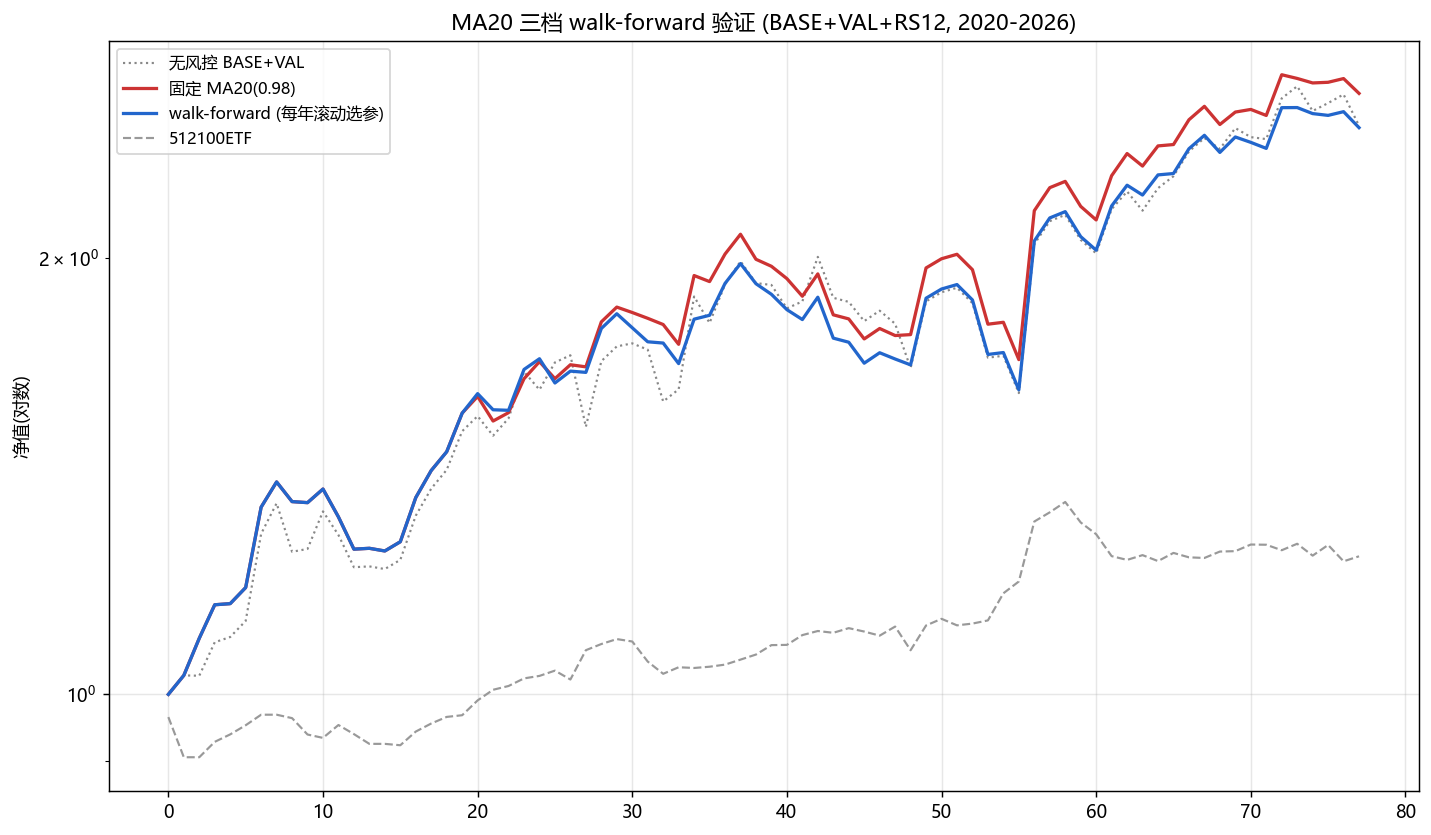
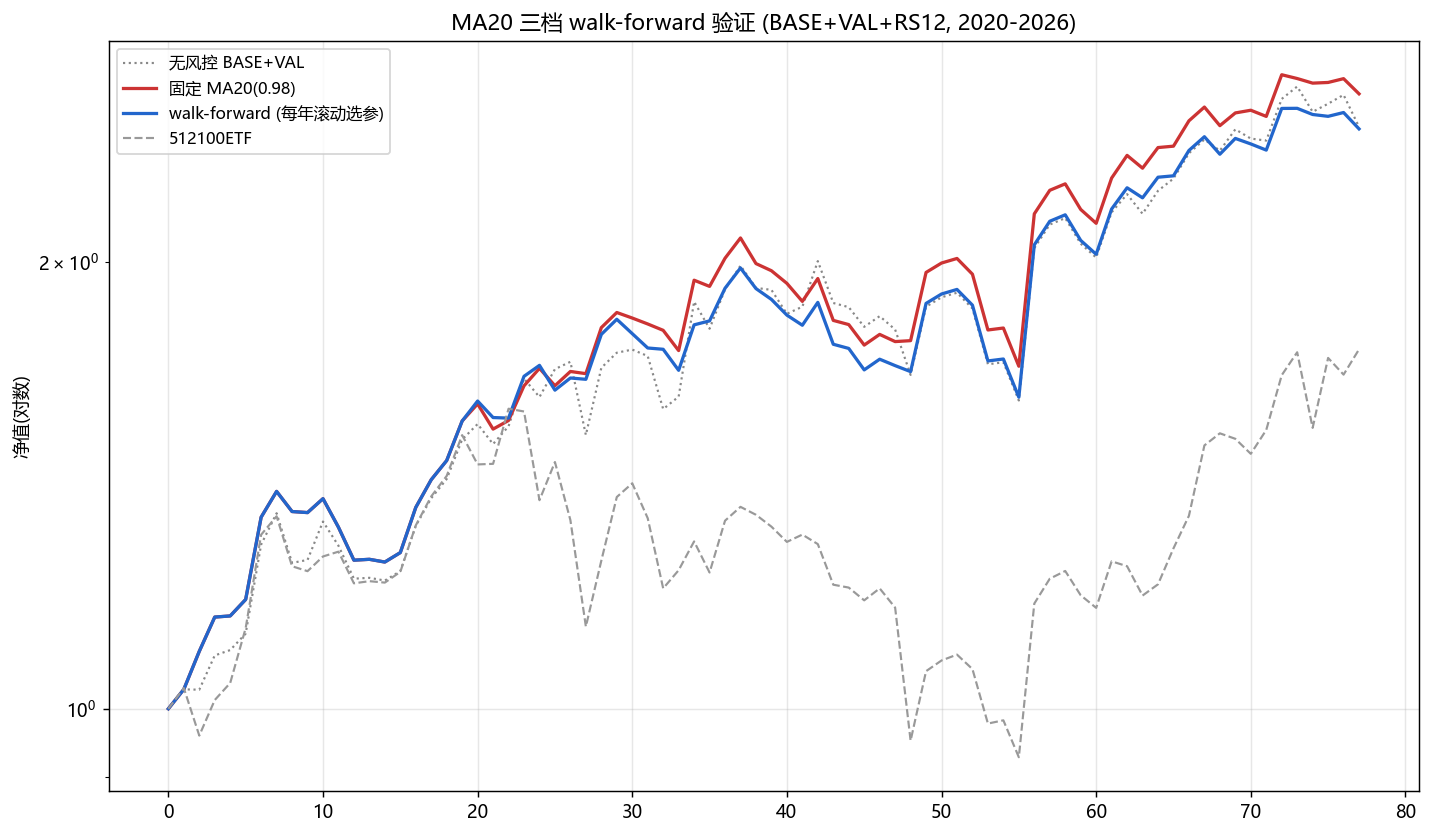
chore(risk_control): 五轮非阻塞项清理 — walk-forward 图 ETF 线改完整月收益、顶部补归档路径、平均仓位列名澄清为强段均仓(RS12强段风控系数)

diff --git a/scripts/risk_control/walk_forward_bt.py b/scripts/risk_control/walk_forward_bt.py
@@ -301,6 +301,16 @@ def main():
         fh.write("\n".join(out_lines) + "\n")
 
     # ---------- 图 ----------
+    # ETF 对照: 完整月收益 (rb, rb_next] 复利记在 rb_next, 与策略 NAV 对齐
+    # (修复: 原取调仓日单日收益, 视觉对照偏低/失真)
+    etf_m = {}
+    for i, rb in enumerate(rebal):
+        if i + 1 >= len(rebal):
+            continue
+        rb_next = rebal[i + 1]
+        hi, hn = trade_dates.index(rb), trade_dates.index(rb_next)
+        etf_m[rb_next] = (1 + etf_ret.reindex(trade_dates[hi + 1:hn + 1]).fillna(0.0)).prod() - 1
+    etf_m = pd.Series(etf_m)
     fig, ax = plt.subplots(figsize=(13, 7.5))
     x_all = sorted(rebal)
     ax.plot(np.arange(len(x_all)), navs_none.reindex(x_all).ffill().values,
@@ -309,7 +319,7 @@ def main():
             label=f"固定 MA20(0.98)", lw=1.8, color="#c33")
     ax.plot(np.arange(len(x_all)), wf_nav.reindex(x_all).ffill().values,
             label="walk-forward (每年滚动选参)", lw=1.8, color="#26c")
-    ax.plot(np.arange(len(x_all)), (1 + etf_ret.reindex(x_all).fillna(0)).cumprod().values,
+    ax.plot(np.arange(len(x_all)), (1 + etf_m.reindex(x_all).fillna(0)).cumprod().values,
             label="512100ETF", lw=1.2, ls="--", color="#999")
     ax.set_yscale("log")
     ax.set_ylabel("净值(对数)")

diff --git a/scripts/risk_control/risk_control_bt.py b/scripts/risk_control/risk_control_bt.py
@@ -233,7 +233,7 @@ def main():
     print("\n" + "=" * 110)
     print("回撤控制对比 (BASE+VAL + RS12 框架, 2020-2026, 月度调仓 Top50, 20bps, 风控降仓吃现金)")
     print("=" * 110)
-    print(f"\n{'策略':<16}{'年化':>8}{'Sharpe':>8}{'MaxDD':>9}{'月胜率':>8}{'超额vETF':>10}{'卡玛':>7}{'平均仓位':>8}")
+    print(f"\n{'策略':<16}{'年化':>8}{'Sharpe':>8}{'MaxDD':>9}{'月胜率':>8}{'超额vETF':>10}{'卡玛':>7}{'强段均仓':>8}")
     out_lines = []
     nav_series = {}
     for lb in labels:

diff --git a/scripts/risk_control/risk_control_bt2.py b/scripts/risk_control/risk_control_bt2.py
@@ -203,7 +203,7 @@ def main():
     print("\n" + "=" * 118)
     print("回撤控制补充: 个股止损 / IM空头对冲 (BASE+VAL+RS12, 月度调仓 Top50, 20bps, 2020-2026)")
     print("=" * 118)
-    print(f"\n{'策略':<20}{'年化':>8}{'Sharpe':>8}{'MaxDD':>9}{'月胜率':>8}{'超额vETF':>10}{'卡玛':>7}{'平均仓位':>8}")
+    print(f"\n{'策略':<20}{'年化':>8}{'Sharpe':>8}{'MaxDD':>9}{'月胜率':>8}{'超额vETF':>10}{'卡玛':>7}{'强段均仓':>8}")
     out_lines = []
     nav_series = {}
     for lb in labels:

diff --git a/STOCK/risk_control.md b/STOCK/risk_control.md
@@ -1,11 +1,11 @@
 # 回撤控制研究：MA20 三档 / 波动率目标 / 回撤触发 / CPPI-TIPP 对比（2020~2026）
 
-> 脚本: `research/factor_dic/risk_control_bt.py`（结果: `research/factor_dic/results/risk_control_bt.txt`, 图: `results/risk_control_nav.png`）；补充方向 `risk_control_bt2.py`（结果: `results/risk_control_bt2.txt`, 图: `results/risk_control_nav2.png`）；验证 `walk_forward_bt.py`（结果: `results/walk_forward_bt.txt`, 图: `results/walk_forward_nav.png`）
+> 脚本（上游源码）: `research/factor_dic/risk_control_bt.py`（结果: `research/factor_dic/results/risk_control_bt.txt`, 图: `results/risk_control_nav.png`）；补充方向 `risk_control_bt2.py`（结果: `results/risk_control_bt2.txt`, 图: `results/risk_control_nav2.png`）；验证 `walk_forward_bt.py`（结果: `results/walk_forward_bt.txt`, 图: `results/walk_forward_nav.png`）；**本仓库归档: `scripts/risk_control/`（脚本+结果同目录）**
 > 框架: BASE+VAL (ret_1m+ivol+turn+VAL) + RS12 择时, 中证1000 Top50 月度调仓, 20bps 双边, 2020-01~2026-06
 > 风控方式: 日频仓位系数 w 叠加在月度持有期上, 降仓部分按现金(0收益)缓冲; RS12 弱时持 512100 ETF
-> 状态: ⚠ 已修正前视 + 四轮审查问题并重跑（2026-08-03）
+> 状态: ⚠ 核心回测逻辑已通过五轮静态审计（2026-08-03）；保持 ⚠ 的原因是私有数据与上游 research/factor_dic 环境无法外部独立复现，而非已上传代码存在严重逻辑错误
 
-## 修复记录（2026-08-03，四轮审查）
+## 修复记录（2026-08-03，五轮审查）
 
 **第一轮（已推送 e8d6015/61df689）**：MA20/Vol 同日前视 → T-1 信号 T 日生效；主基准 32.28% → 16.04%。
 
@@ -27,9 +27,14 @@
 3. **止损成本重复扣除 → 锁存边沿**：原 new_trig 按原始收益"再次穿越阈值"判断，锁存后股票未买回、价格恢复后二次跌破仍重复扣费。修复为 **`trig & ~trig.shift(1)`（锁存状态边沿，仅首次触发扣一次）**。修复后止损8 = **16.01%**（介于无成本 16.20% 与重复收费 15.90% 之间，较 MA20 基线 16.04% 基本持平 -0.03pp）、止损12 = 15.97%、止损8+对冲07B = 8.30%。
 4. **TIPP 表述修正（勿泛化）**：TIPP 为"仅 RS12 强段生效、floor 按扣成本前 NAV 更新"的自定义版本，7.32% 只说明**当前实现表现差**，不宜泛化为"CPPI/TIPP 普遍无效"。
 
+**第五轮（非阻塞项清理，commit 紧接 04fc2b0）**：
+1. **walk-forward 图 ETF 对照线修正（仅图片）**：原图线取月末调仓日单日 ETF 收益，现改为 (rb, rb_next] 完整月收益复利并记在 rb_next，与策略 NAV 对齐。表格与策略指标不受影响（全样本数字不变：walk-forward 15.06%、固定 0.98 16.04%）。
+2. **路径导航补充**：顶部注明本仓库归档位置 `scripts/risk_control/`（脚本+结果同目录），上游源码路径保留标注。
+3. **"平均仓位"列名澄清 → "强段均仓"**：该列为 **RS12 强段内、各月等权平均的日频风控系数**（非全样本平均股票敞口；弱段持 ETF 不计入）。脚本表头与本文档同步改名。
+
 ## 结果对比（9 变体, 2020-2026, 月度调仓 Top50, 修复后）
 
-| 策略 | 年化 | Sharpe | MaxDD | 月胜率 | 超额vETF | 卡玛 | 平均仓位 |
+| 策略 | 年化 | Sharpe | MaxDD | 月胜率 | 超额vETF | 卡玛 | 强段均仓¹ |
 |---|---|---|---|---|---|---|---|
 | BASE+VAL（无风控） | 15.12% | 0.80 | 19.46% | 61.0% | +41.25% | 0.78 | 100% |
 | **+MA20三档(0.97)** | **16.18%** | **0.96** | 18.18% | 55.8% | +49.82% | **0.89** | 66% |
@@ -44,6 +49,7 @@
 | 基准 512100ETF | 9.08% | 0.48 | 41.78% | | | | |
 
 > BASE+VAL/基准不受风控前视影响；超额 vETF 已按 rb_next 对齐（旧数字 +45.9%/+54.7%/+53.5% 等废弃）。
+> ¹ 强段均仓 = **RS12 强段内、各月等权平均的日频风控系数**（非全样本平均股票敞口；弱段持 ETF 不计入）。
 
 ## 风控规则
 
@@ -57,7 +63,7 @@
 1. **MA20 三档：温和改善，仍是唯一有效的风控**。年化 16.04~16.18%（无风控 15.12%），超额 vETF +48.7~49.8%；Sharpe 0.95~0.96（vs 0.80）、MaxDD 18.1%（vs 19.46%）、卡玛 0.89（vs 0.78）。修复前视后不再有"碾压"优势，但**降回撤/提卡玛的价值真实且保留**。
 2. **波动率目标无增量（不变）**：目标 15-20% 高于组合实际波动，触发少。
 3. **DD 触发无增量（保留；无前视 shadow 版更差）**：第四轮修复 T-1 决策顺序 + shadow 弱段持续更新后，DD触发 **13.39%**、DD1018 **10.79%**（低于无风控 1.7~4.3pp），MaxDD 20.67%/20.36% 甚至高于无风控 19.46%。原因：无前视下恢复信号滞后一天、触发半仓后需 shadow 回撤修复到 -3~5% 才恢复，弱市反弹期踏空更久。**"DD 触发无增量"结论稳定（三轮三种口径均为无增量）**。
-4. **CPPI/TIPP 当前实现无效（表述修正，勿泛化）**：TIPP 为"仅 RS12 强段生效、floor 按扣成本前 NAV 更新"的**自定义版本**——平均仓位仅 20%、年化 7.32%；CPPI085 用真实 α=0.85 后 8.28%。**该结果只说明当前实现表现差，不能泛化为"CPPI/TIPP 普遍无效"**。MaxDD 15.41% 瓶颈仍在 RS12 弱段 ETF（TIPP 只保护强段）。
+4. **CPPI/TIPP 当前实现无效（表述修正，勿泛化）**：TIPP 为"仅 RS12 强段生效、floor 按扣成本前 NAV 更新"的**自定义版本**——强段均仓仅 20%、年化 7.32%；CPPI085 用真实 α=0.85 后 8.28%。**该结果只说明当前实现表现差，不能泛化为"CPPI/TIPP 普遍无效"**。MaxDD 15.41% 瓶颈仍在 RS12 弱段 ETF（TIPP 只保护强段）。
 5. **个股止损 8% 计摩擦后与基线基本持平，无确认增量**：毛收益（latch 后）止损8 +0.16pp；锁存边沿计 1% 执行摩擦（滑点+卖出成本，未计跌停无法成交/隔夜跳空）后止损8 = **16.01%**（较 MA20 基线 16.04% 仅 -0.03pp，与基线基本持平）、止损12 = 15.97%（-0.07pp）。**结论："毛收益下略有改善、计入执行成本后未确认有效（约持平）"，不建议单独启用**。
 6. **IM 空头对冲大幅恶化（不变，数字更新）**：β0.7 无基差 12.53%（-3.5pp）；+基差 8.33%；β1.0+基差 6.71%；加止损8 后 8.30%。对本策略仍不可行。
 7. **walk-forward 滚动选参实际跑输（保留，数字更新）**：修复按 rb_next 选参后 walk-forward 全样本 15.06% < 固定 0.98（16.04%）且 < 无风控 15.12%（超额 -0.31%）。滚动选参有真实损失（2021/2022 选 deep=1.00 在后续表现 13.78%，拖累明显）。**"滚动 OOS 选参无损失"不成立；固定 0.98 的稳健性仍由 [A] 子区间与 [B] 高原支撑**（见下）。
@@ -65,7 +71,7 @@
 
 ## 补充方向：个股止损 / IM 空头对冲（risk_control_bt2.py，MA20三档098 基础上叠加，修复后）
 
-| 策略 | 年化 | Sharpe | MaxDD | 月胜率 | 超额vETF | 卡玛 | 平均仓位 |
+| 策略 | 年化 | Sharpe | MaxDD | 月胜率 | 超额vETF | 卡玛 | 强段均仓¹ |
 |---|---|---|---|---|---|---|---|
 | BASE+VAL（无风控） | 15.12% | 0.80 | 19.46% | 61.0% | +41.25% | 0.78 | 100% |
 | **+MA20三档(0.98)** | **16.04%** | **0.95** | **18.06%** | 58.4% | +48.68% | **0.89** | 63% |

diff --git a/STOCK/README.md b/STOCK/README.md
@@ -14,5 +14,5 @@ A股股票品类已确认研究成果索引。
 | [regime_study.md](./regime_study.md) | 市场状态研究：2020~2026 因子×小盘/全市场分类、时期归因、RS12 择时回测 | ✅ 已完成（RS12 择时超额 vs ETF +20.8%） |
 | [style_factors.md](./style_factors.md) | 风格因子增量：巴菲特式质量/价值/成长对主策略贡献（VAL 合成价值系 +RS12 年化 16.1%） | ✅ 已完成（价值系显著增量 / 质量·成长反向） |
 | [alpha101_factors.md](./alpha101_factors.md) | WorldQuant Alpha101 代表因子验证（12 个量价因子对主策略增量） | ✅ 已完成（月频下无增量, ILLIQ A股反向） |
-| [risk_control.md](./risk_control.md) | 回撤控制对比：MA20三档/波动率目标/回撤触发/CPPI-TIPP | ⚠ 已修正前视并重跑（2026-08-03 四轮审查：主基准 32.28%→16.04%，walk-forward 按 rb_next 选参 15.06%、DD shadow NAV 无前视后 13.39%、止损8 锁存边沿摩擦 16.01%；含 2018-2019 独立 OOS ✅） |
+| [risk_control.md](./risk_control.md) | 回撤控制对比：MA20三档/波动率目标/回撤触发/CPPI-TIPP | ⚠ 核心回测逻辑通过五轮静态审计（2026-08-03）：主基准 32.28%→16.04%，walk-forward 15.06%、DD shadow 无前视 13.39%、止损8 锁存边沿摩擦 16.01%；⚠ 因私有数据/上游环境不可外部独立复现；含 2018-2019 独立 OOS ✅ |
 | [defensive_asset_allocation.md](./defensive_asset_allocation.md) | 多资产避险：RS12 弱段持货基/国债/黄金/混合对比 | ⚠ 已修正代码并重跑（2026-08-03 三轮审查：修复 MA20 前视/V4 公式、V5-V8 改月度再平衡；V0 收益最高 16.25%、V8 月平衡卡玛最优 0.93、V8d 日恒权对照 0.94；上游 risk_control 已同步重估；脚本见 scripts/defensive_asset/） |

diff --git a/README.md b/README.md
@@ -14,7 +14,7 @@
 
 - [股票 STOCK](./STOCK/README.md)
   - [风格中性化指数增强（final_quant）](./STOCK/style_neutralized_index_enhancement.md) — ✅ 因子确认 / ⚠ MaxDD 待回源复核
-  - [回撤控制：MA20 三档（risk_control）](./STOCK/risk_control.md) — ⚠ 已修正同日前视并重跑（四轮审查：主基准 32.28%→16.04%，walk-forward 按 rb_next 选参、DD shadow NAV 无前视、止损锁存边沿计摩擦；含 2018-2019 独立 OOS）
+  - [回撤控制：MA20 三档（risk_control）](./STOCK/risk_control.md) — ⚠ 核心回测逻辑通过五轮静态审计（主基准 32.28%→16.04%，walk-forward 15.06%、DD shadow 无前视 13.39%、止损8 摩擦 16.01%）；⚠ 因私有数据不可外部独立复现；含 2018-2019 独立 OOS
   - [多资产避险配置：RS12 弱段资产替换（quant-system）](./STOCK/defensive_asset_allocation.md) — ⚠ 已修正代码并重跑（前视修复后结论反转：V0 收益最高 16.25%、V8 月平衡卡玛最优 0.93、V8d 日恒权对照 0.94；上游已同步重估）
   - [期权增强型全局策略 Study 005（quant-system）](./STOCK/option_enhanced_study005.md) — ❌ 已证伪（Sharpe 3.08 无法复现）
   - [新闻情感与股价预测（news_stock_research）](./STOCK/news_sentiment_prediction.md) — ❌ 已证伪（显著性检验未通过）
